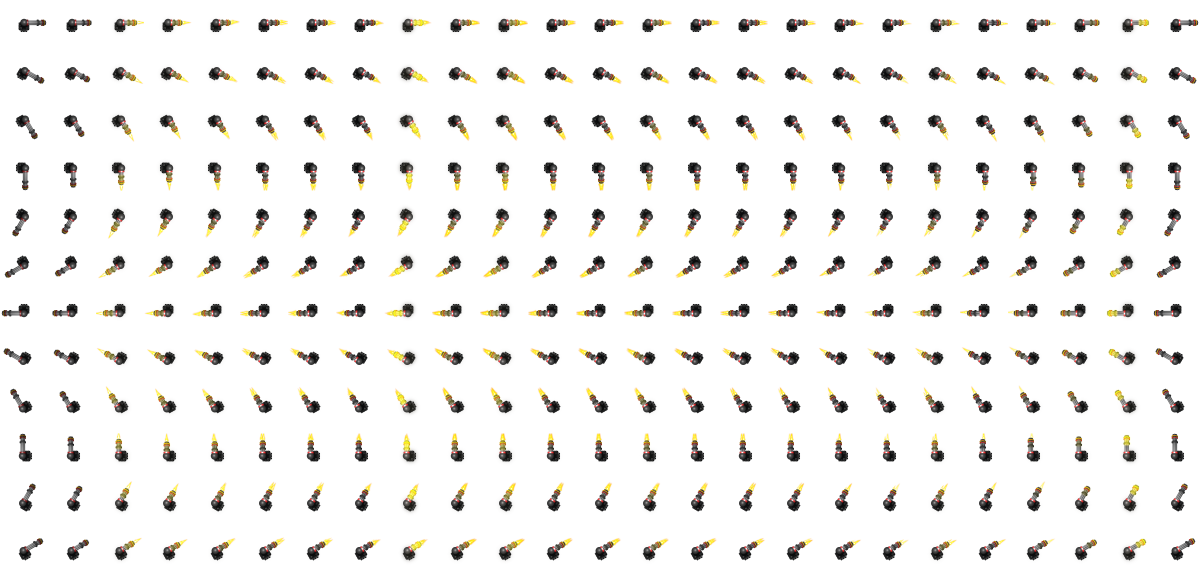
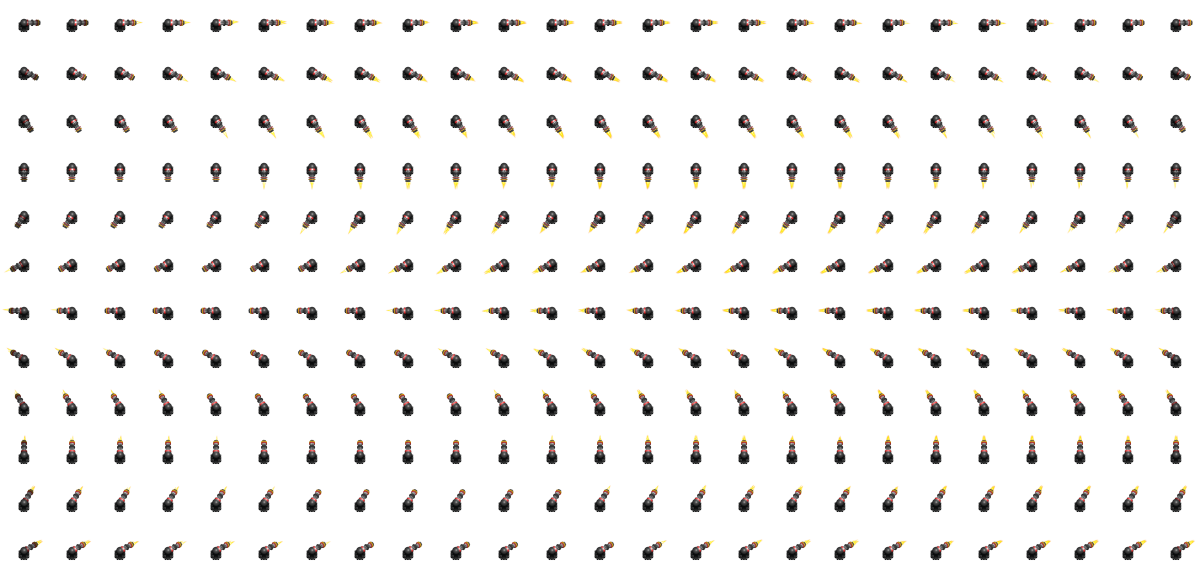
New states.

diff --git a/js/states.js b/js/states.js
@@ -14,8 +14,78 @@ function boot() {
 			pathfinder = game.plugins.add(Phaser.Plugin.PathFinderPlugin);
 			game.stage.backgroundColor = '#CCCCCC';
 			game.physics.startSystem(Phaser.Physics.ARCADE);
-			setTimeout(function() {game.state.start('level1');}, 1000);
+			setTimeout(function() {game.state.start('logo');}, 1000);
 		},
+	};
+}
+
+class RevealText extends Phaser.BitmapText {
+	constructor(game, x, y, font, text, size, delay, align) {
+		super(game, x, y, font, '', size, align);
+		this.all_text = text;
+		this.delay = delay;
+		this.current_delay = 0;
+		this.current_char = 0;
+		game.add.existing(this);
+	}
+
+	update() {
+		if(this.current_delay == this.delay) {
+			this.current_delay = 0;
+			this.current_char += 1;
+
+			this.text = this.all_text.slice(0, this.current_char);
+			if(this.current_char == this.all_text.length) {
+				this.onfinish();
+			}
+		} else {
+			this.current_delay += 1;
+		}
+	}
+
+	onfinish() {
+		console.log("the end!");
+		this.update = function() {}
+		game.state.start('level1');
+	}
+}
+
+function logo() {
+	return {
+		preload: function () {
+			game.load.image('logo', 'data/images/grid.png');
+		},
+
+		create: function() {
+			game.add.sprite(0, 0, 'logo');
+			setTimeout(function() {
+				game.state.start('intro')
+			},2000)
+		},
+	};
+}
+
+function intro() {
+	return {
+		preload: function () {
+			game.load.bitmapFont('font', 'data/images/font4.png', 'data/images/font4.fnt');
+		},
+
+		create: function() {
+			game.stage.backgroundColor = '#111111';
+
+			var text = `The world was about to come to an end...
+
+The evil guy, sent his minions to kidnap the beautiful princess!
+
+This is the story of an architect prince,
+building twisted towers to defende his princess!                        `;
+			x = new RevealText(game, 250, 100, 'font', text, 16, 5);
+			x.tint = 0xEEEE00;
+		},
+		update: function() {
+	    x.update();
+		}
 	};
 }
 
@@ -24,7 +94,7 @@ function level1() {
 		map: {},
 		enemies: undefined,
 		towers: undefined,
-		startTile: {x:2 , y:7}, 
+		startTile: {x:2 , y:7},
 		endTile: {x:24 , y:7},
 		preload: function () {
 	    	game.load.tilemap('map1', 'data/maps/map1.json', null, Phaser.Tilemap.TILED_JSON);
@@ -41,14 +111,14 @@ function level1() {
 
 			grid = pathfinder.setGrid(this.map.layers[0].data, [-1]);
 
-		    //  The first parameter is the tileset name, as specified in the Tiled map editor (and in the tilemap json file)
-		    //  The second parameter maps this name to the Phaser.Cache key 'tiles'
-		    this.map.addTilesetImage('grid', 'grid');
+	    //  The first parameter is the tileset name, as specified in the Tiled map editor (and in the tilemap json file)
+	    //  The second parameter maps this name to the Phaser.Cache key 'tiles'
+		  this.map.addTilesetImage('grid', 'grid');
 
 		    //  Creates a layer from the World1 layer in the map data.
 		    //  A Layer is effectively like a Phaser.Sprite, so is added to the display list.
 			game.add.sprite(0, 0, 'ground');
-	    	this.map.createLayer('grid');
+	    this.map.createLayer('grid');
 
 			this.enemies = game.add.group();
 			this.towers = game.add.group();
@@ -62,7 +132,7 @@ function level1() {
 		},
 
 	    render: function(){
-	      //game.debug.text("Mouse x: " + game.input.activePointer.position.x, 300, 92);
+	      game.debug.text(this.enemies.length, 30,30 );
 	      //game.debug.text("Mouse y: " + game.input.activePointer.position.y, 300, 112);
 	      //game.debug.text("Left Button: " + game.input.activePointer.leftButton.isDown, 300, 132);
 	    },
@@ -74,6 +144,9 @@ function level1() {
 	};
 }
 
+
 game.state.add('boot', boot());
+game.state.add('logo', logo());
+game.state.add('intro', intro());
 game.state.add('level1', level1());
 game.state.start('boot');

diff --git a/js/entities.js b/js/entities.js
@@ -1,33 +1,39 @@
 var enemy_type = ['dude','monster', 'sancho'];
-var enemy_props = {
-	'dude': {
-		health: 1,
-		speed: 10
-	},
-	'monster': {
-		health: 1000,
-		speed: 5
-	},
-	'sancho' : {
-		health: 5000,
-		speed: 2
-	}
+var enemy_props = function(type) {
+	var x = {
+		'dude': {
+			health: 10,
+			speed: 10
+		},
+		'monster': {
+			health: 1000,
+			speed: 5
+		},
+		'sancho' : {
+			health: 5000,
+			speed: 2
+		}
+	};
+	return x[type];
 };
 
 var tower_type = ['tower1', 'tower2'];
-var tower_props = {
-	'tower1': {
-		speed: 0.03,
-		dist_range: 2*48,
-		ang_range: 80,
-		power: 1
-	},
-	'tower2': {
-		speed: 0.01,
-		dist_range: 2*48,
-		ang_range: 60,
-		power: 5
-	},
+var tower_props = function(type) {
+	var x = {
+		'tower1': {
+			speed: 0.03,
+			dist_range: 2*48,
+			ang_range: 80,
+			power: 1
+		},
+		'tower2': {
+			speed: 0.01,
+			dist_range: 2*48,
+			ang_range: 60,
+			power: 5
+		}
+	};
+	return x[type];
 };
 
 function Enemy(x, y, type) {
@@ -38,7 +44,7 @@ function Enemy(x, y, type) {
 
 	enemy.enableBody = true;
   enemy.dirty = false;
-	enemy.props = enemy_props[type];
+	enemy.props = enemy_props(type);
 
 	//  Player physics properties.
 	//this.enemy.anchor.x = 0.5;
@@ -57,11 +63,9 @@ function Enemy(x, y, type) {
 			this.path = path;
 	}).bind(enemy));
 
-	enemy.update = (function() {
+	enemy.update = function() {
 
-		if(this.props.health < 0) {
-			this.position.y = 50000;
-		}
+
 
 		//Check the path
     if(this.dirty) this.updatePath();
@@ -90,7 +94,7 @@ function Enemy(x, y, type) {
         }
         var dist = 0.1 * Math.sqrt((distx*distx) + (disty*disty));
         this.body.velocity.x = this.props.speed * (distx/dist); // ;
-        this.body.velocity.y = (disty/dist); //this.props.speed * ;
+        this.body.velocity.y = this.props.speed * (disty/dist); //this.props.speed * ;
 
 				var direction = getDirection(this);
 				//console.log(direction);
@@ -102,6 +106,16 @@ function Enemy(x, y, type) {
         this.body.velocity.x = 0;
         this.body.velocity.y = 0;
       }
+
+			if(this.props.health < 0) {
+				console.log("BAMMMM!");
+				console.log(this.position);
+				this.destroy();
+				//this.props.health = 100;
+				//this.body.position.x = 10000;
+				//this.body.velocity.x = 0;
+				//this.body.velocity.y = 0;
+			}
 
     }
 	};
@@ -115,9 +129,10 @@ function Enemy(x, y, type) {
 		}).bind(this));
 	};
 
-	enemy.reduceHealth = (function(h) {
+	enemy.reduceHealth = function(h) {
 		this.props.health -= h;
-	}).bind(enemy);
+	};
+
 	return enemy;
 }
 
@@ -173,7 +188,7 @@ function Tower(x, y, type) {
 	tower.animations.play("0_idle");
 
 	tower.direction = 0;
-	tower.props = tower_props[type];
+	tower.props = tower_props(type);
 
 	tower.line = new Phaser.Line(0,0,0,0);
 
@@ -183,7 +198,8 @@ function Tower(x, y, type) {
 
 	tower.findEnemiesInRange = function(enemies) {
 		//linear distance.
-		var inrange = enemies.children.some(a => {
+		console.log(enemies.children.length)
+		var inrange = enemies.children.some(function(a) {
 
 			this.line.start = this.position;
 			this.line.end = a.position;
@@ -198,7 +214,7 @@ function Tower(x, y, type) {
 				}
 			}
 			return false;
-		});
+		}, this);
 
 		return inrange;
 	};
@@ -207,9 +223,12 @@ function Tower(x, y, type) {
 		this.direction += this.props.speed;
 		if(this.direction > Math.PI) this.direction -= 2*Math.PI;
 
-	this.findEnemiesInRange = function(enemys) {
+		var angle = ((360 + (180*this.direction/Math.PI)) % 360) - 15;
 
-	}
+		var frame = Math.round(angle/30);
+		var mode = this.findEnemiesInRange(state.enemies) ? "fire" : "idle"
+		this.animations.play(frame+"_"+mode);
+	};
 
 	return tower;
 
